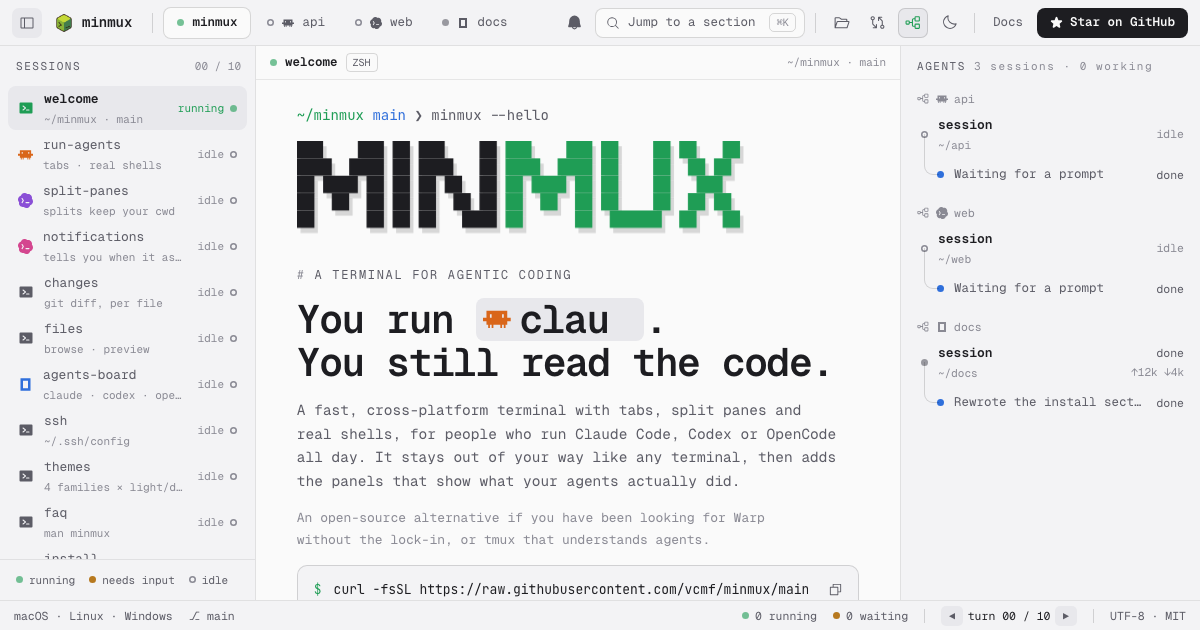
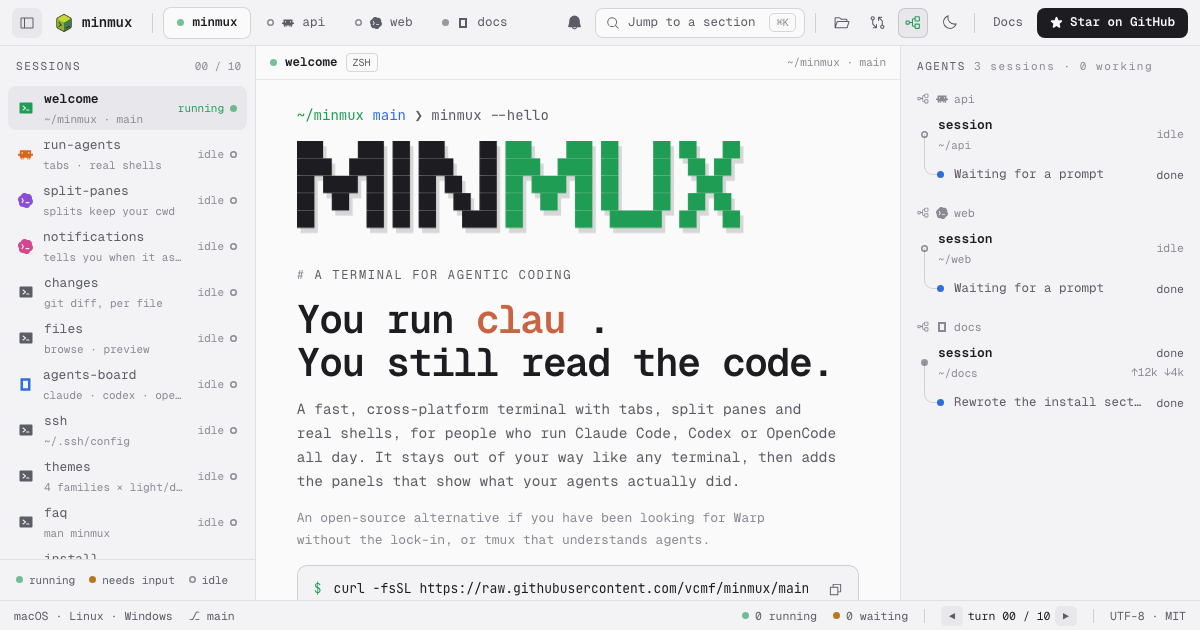
fix: colour the hero's agent word and keep each phrase on its own line
- drop the mark and chip around the typed agent; the word itself takes the
  agent's identity colour (Claude's clay; Codex and OpenCode are monochrome)
- each phrase is a fixed, non-wrapping line, so retyping never moves the
  second phrase; the heading sizes itself from its column (container query)
  so both lines fit from 320px up

diff --git a/app/globals.css b/app/globals.css
@@ -913,6 +913,7 @@ b {
   flex-direction: column;
   gap: 14px;
   font-family: var(--chrome);
+  container-type: inline-size; /* the h1 sizes itself from this column */
 }
 .mm-eyebrow {
   font-size: 12px;
@@ -920,12 +921,21 @@ b {
   text-transform: uppercase;
   color: var(--muted-foreground);
 }
+/* sized from its own column, so the longest fixed line ("You still read the code.", 24ch at
+   ~0.565em each with the tight tracking) always fits on one line */
 .mm-hero h1 {
-  font-size: clamp(32px, 3.3vw, 46px);
+  font-size: clamp(20px, calc(100cqi / 14.2), 46px);
   line-height: 1.08;
   letter-spacing: -0.035em;
   font-weight: 600;
-  text-wrap: balance;
+}
+/* each phrase is its own line and never wraps, so the typed word can't move the other one */
+.mm-h1-line {
+  display: block;
+  white-space: nowrap;
+}
+.mm-h1-line:has(.mm-agent-cmd-still) {
+  white-space: normal;
 }
 .mm-hero-copy p {
   max-width: 62ch;
@@ -935,23 +945,21 @@ b {
   text-wrap: pretty;
 }
 /* hero: the agent command typed in place (claude → codex → opencode) */
-.mm-agent-cmd {
-  display: inline-flex;
-  align-items: center;
-  gap: 0.22em;
-  padding: 0 0.18em;
-  border-radius: 8px;
-  background: var(--surface-active);
-  white-space: nowrap;
+.mm-agent-cmd [data-agent="claude"] {
+  color: var(--agent-claude);
 }
-.mm-agent-cmd-mark {
-  width: 0.7em;
-  height: 0.7em;
+.mm-agent-cmd [data-agent="codex"] {
+  color: var(--agent-codex);
+}
+.mm-agent-cmd [data-agent="opencode"] {
+  color: var(--agent-opencode);
 }
 .mm-agent-cmd-caret {
   display: inline-block;
   width: 0.5em;
   height: 0.85em;
+  margin-left: 0.06em;
+  vertical-align: -0.06em;
   background: var(--brand);
 }
 .mm-pane-mark,
@@ -1549,9 +1557,6 @@ b {
   }
   .mm-logo {
     width: min(100%, 360px);
-  }
-  .mm-hero h1 {
-    font-size: 31px;
   }
   .mm-cue {
     display: none;

diff --git a/components/minmux/agent-rotator.tsx b/components/minmux/agent-rotator.tsx
@@ -1,11 +1,12 @@
 "use client"
 
 import { useEffect, useState } from "react"
-import { AgentMark, type AgentKind } from "./icons"
+import type { AgentKind } from "./icons"
 
-/** The agents the hero cycles through, as the commands you'd type to start them. */
-const AGENTS: { kind: AgentKind; cmd: string; color?: string }[] = [
-  { kind: "claude", cmd: "claude", color: "var(--cc-orange)" },
+/** The agents the hero cycles through, as the commands you'd type to start them; each word is
+ *  drawn in its agent's identity colour (`--agent-<kind>`). */
+const AGENTS: { kind: AgentKind; cmd: string }[] = [
+  { kind: "claude", cmd: "claude" },
   { kind: "codex", cmd: "codex" },
   { kind: "opencode", cmd: "opencode" },
 ]
@@ -45,13 +46,23 @@ export function AgentRotator({ active }: { active: boolean }) {
   }, [active, still, i, n, erasing])
 
   if (still) {
-    return <span className="mm-agent-cmd">&lt;{AGENTS.map((a) => a.cmd).join(" | ")}&gt;</span>
+    return (
+      <span className="mm-agent-cmd mm-agent-cmd-still">
+        &lt;
+        {AGENTS.map((a, k) => (
+          <span key={a.kind}>
+            {k > 0 && " | "}
+            <span data-agent={a.kind}>{a.cmd}</span>
+          </span>
+        ))}
+        &gt;
+      </span>
+    )
   }
   const a = AGENTS[i]
   return (
     <span className="mm-agent-cmd">
-      <AgentMark kind={a.kind} color={a.color} className="mm-agent-cmd-mark" />
-      <span>{a.cmd.slice(0, n)}</span>
+      <span data-agent={a.kind}>{a.cmd.slice(0, n)}</span>
       <span className="mm-agent-cmd-caret a-caret" />
     </span>
   )

diff --git a/app/tokens.css b/app/tokens.css
@@ -85,10 +85,12 @@
   --shadow: rgba(0, 0, 0, 0.7);
 }
 
-/* Claude Code /color swatches, per scheme (src/lib/session-color.ts SWATCHES) */
+/* Claude Code /color swatches, per scheme (src/lib/session-color.ts SWATCHES), and the
+   agents' identity colours: Claude's clay (deeper on light schemes, for contrast) */
 :root,
 [data-palette="minimal-light"],
 [data-palette="tokyo-light"] {
+  --agent-claude: #c96442;
   --cc-red: #d33a47;
   --cc-blue: #2f6fdb;
   --cc-green: #1f9d55;
@@ -100,6 +102,7 @@
 }
 [data-palette="minimal-dark"],
 [data-palette="tokyo-dark"] {
+  --agent-claude: #d97757;
   --cc-red: #f0625f;
   --cc-blue: #5b9cf5;
   --cc-green: #4ec97a;
@@ -155,6 +158,10 @@
   --code-key: var(--blue);
   --term-cwd: var(--accent);
   --term-branch: var(--blue);
+
+  /* agents' identity colours; Codex and OpenCode have monochrome identities */
+  --agent-codex: var(--text);
+  --agent-opencode: var(--text);
 
   /* typography */
   --mono: "JetBrains Mono", ui-monospace, Menlo, monospace;

diff --git a/components/minmux/turns.tsx b/components/minmux/turns.tsx
@@ -194,9 +194,11 @@ export function Turns({
               id="welcome-h"
               aria-label="You run Claude Code, Codex or OpenCode. You still read the code."
             >
-              You run <AgentRotator active={turn === 0} />.
-              <br />
-              You still read the code.
+              {/* one fixed line per phrase: only the typed word changes, nothing reflows */}
+              <span className="mm-h1-line">
+                You run <AgentRotator active={turn === 0} />.
+              </span>
+              <span className="mm-h1-line">You still read the code.</span>
             </h1>
             <p>
               A fast, cross-platform terminal with tabs, split panes and real shells, for people who
